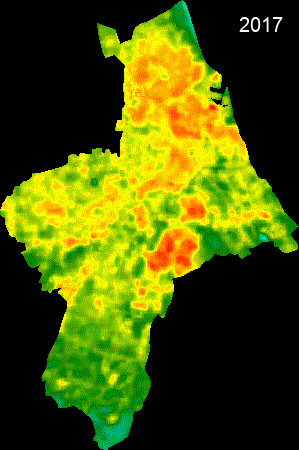
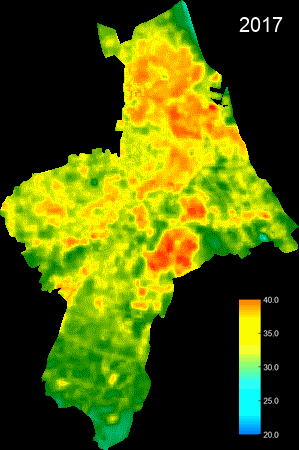
Menambahkan colorbar pada gambar

Changed region(s): [[0.7826, 0.6533, 0.9331, 0.9956]]

diff --git a/pages/2_🌡_Land Surface Temperature.py b/pages/2_🌡_Land Surface Temperature.py
@@ -117,7 +117,7 @@ def result(latitude, longitude, site, site_buffer):
 
                 return df
         
-            with st.expander('Show Gift Animation'):
+            with st.expander('Show Gift Animation', expanded=True):
 
                 LSTParams = {'min': 17 , 'max': 45, 'palette': ['blue', 'yellow','red']}
 
@@ -150,9 +150,9 @@ def result(latitude, longitude, site, site_buffer):
 
                     return filtered
 
+                # Membuat gif lst tahunan
                 years = ee.List.sequence(2013,2022)
                 reduce_yearly = ee.ImageCollection(years.map(reducebyYear))
-
                 videoArgs = {
                     'dimensions': 450,
                     'region': roi,
@@ -162,11 +162,10 @@ def result(latitude, longitude, site, site_buffer):
                     'max': 40,
                     'palette': ['blue', 'cyan', 'green', 'yellow', 'red']
                 }
-
                 geemap.download_ee_video(reduce_yearly, videoArgs, 'Data/Pictures/lst.gif')
 
-                text = list(range(2013,2023))
-                
+                # Menambahkan text tahun pada gambar
+                text = list(range(2013,2023))               
                 geemap.add_text_to_gif(
                     'Data/Pictures/lst.gif',
                     'Data/Pictures/lst.gif',
@@ -178,10 +177,32 @@ def result(latitude, longitude, site, site_buffer):
                     add_progress_bar=False
                 ) 
 
+                # Menambahkan colorbar pada gambar
+                colorbar_v = geemap.create_colorbar(
+                    width=250,
+                    height=40,
+                    palette=['blue', 'cyan', 'green', 'yellow', 'red'],
+                    vertical=True,
+                    add_labels=True,
+                    font_size=15,
+                    labels=[20, 40],
+                    add_outline=False,
+                    out_file='Data/Pictures/colorbar/colorbar.png',
+                    font_color='white'
+                )
+
+                geemap.add_image_to_gif(
+                    in_gif='Data/Pictures/lst.gif',
+                    out_gif='Data/Pictures/lst.gif',
+                    in_image='Data/Pictures/colorbar/colorbar.png',
+                    xy=('80%', '65%'),
+                    image_size=(150, 150)
+                )
+
                 cols = st.columns(3)
                 cols[1].image('Data/Pictures/lst.gif', use_column_width='auto')
  
-            with st.expander('Show LST Images by Yearly'):
+            with st.expander('Show LST Images by Yearly', expanded=True):
 
                 geemap.gif_to_png('Data/Pictures/lst.gif', 'Data/Pictures/YearlyLST/')
 
@@ -201,7 +222,7 @@ def result(latitude, longitude, site, site_buffer):
                 c2.image('Data/Pictures/YearlyLST/10.png', caption='median LST 2022', use_column_width=True)
 
 
-            with st.expander('Show Data'):
+            with st.expander('Show Data', expanded=True):
                 df = load_dataframe()
                 df = df.dropna()
                 df['delta'] = df.LST.diff().fillna(0)
@@ -226,7 +247,7 @@ def result(latitude, longitude, site, site_buffer):
                     mime='text/csv',
                 )
 
-            with st.expander('Show Chart'):
+            with st.expander('Show Chart', expanded=True):
 
                 st.subheader('Line Chart')
 
